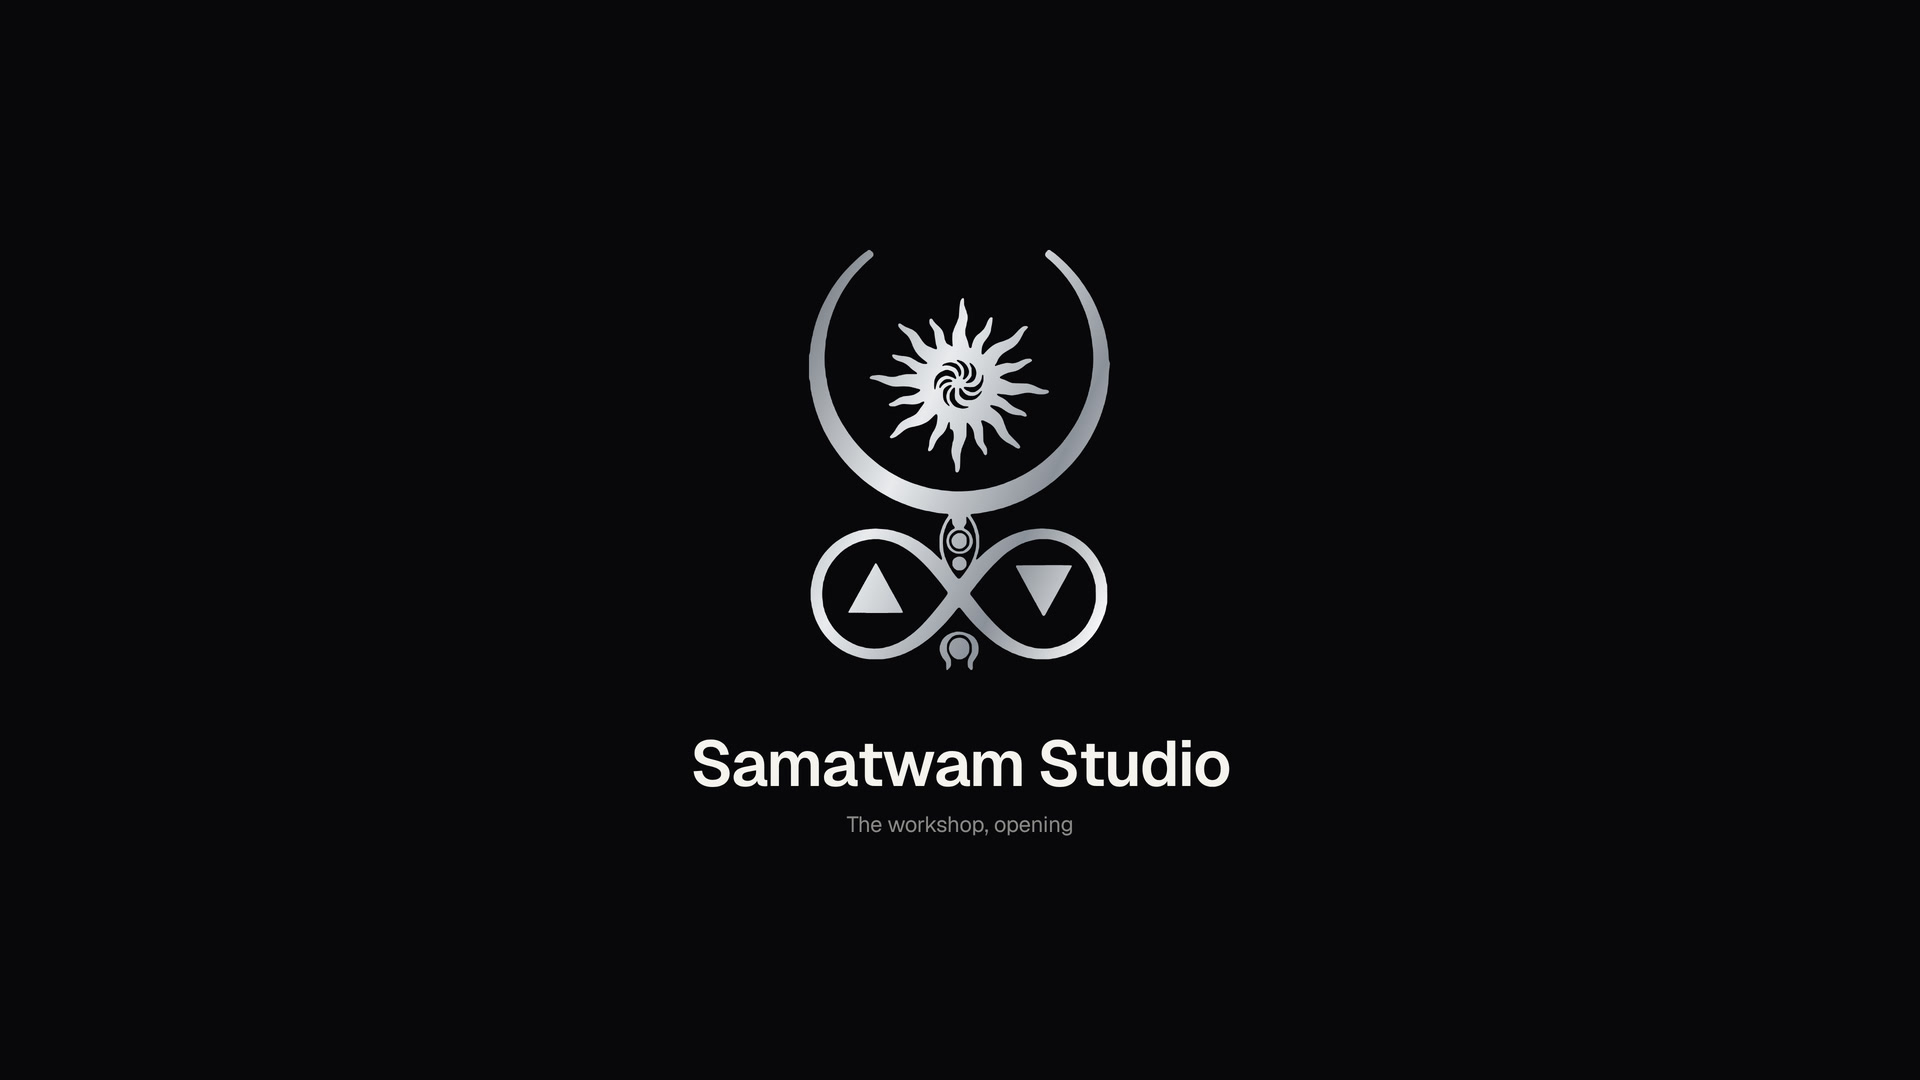
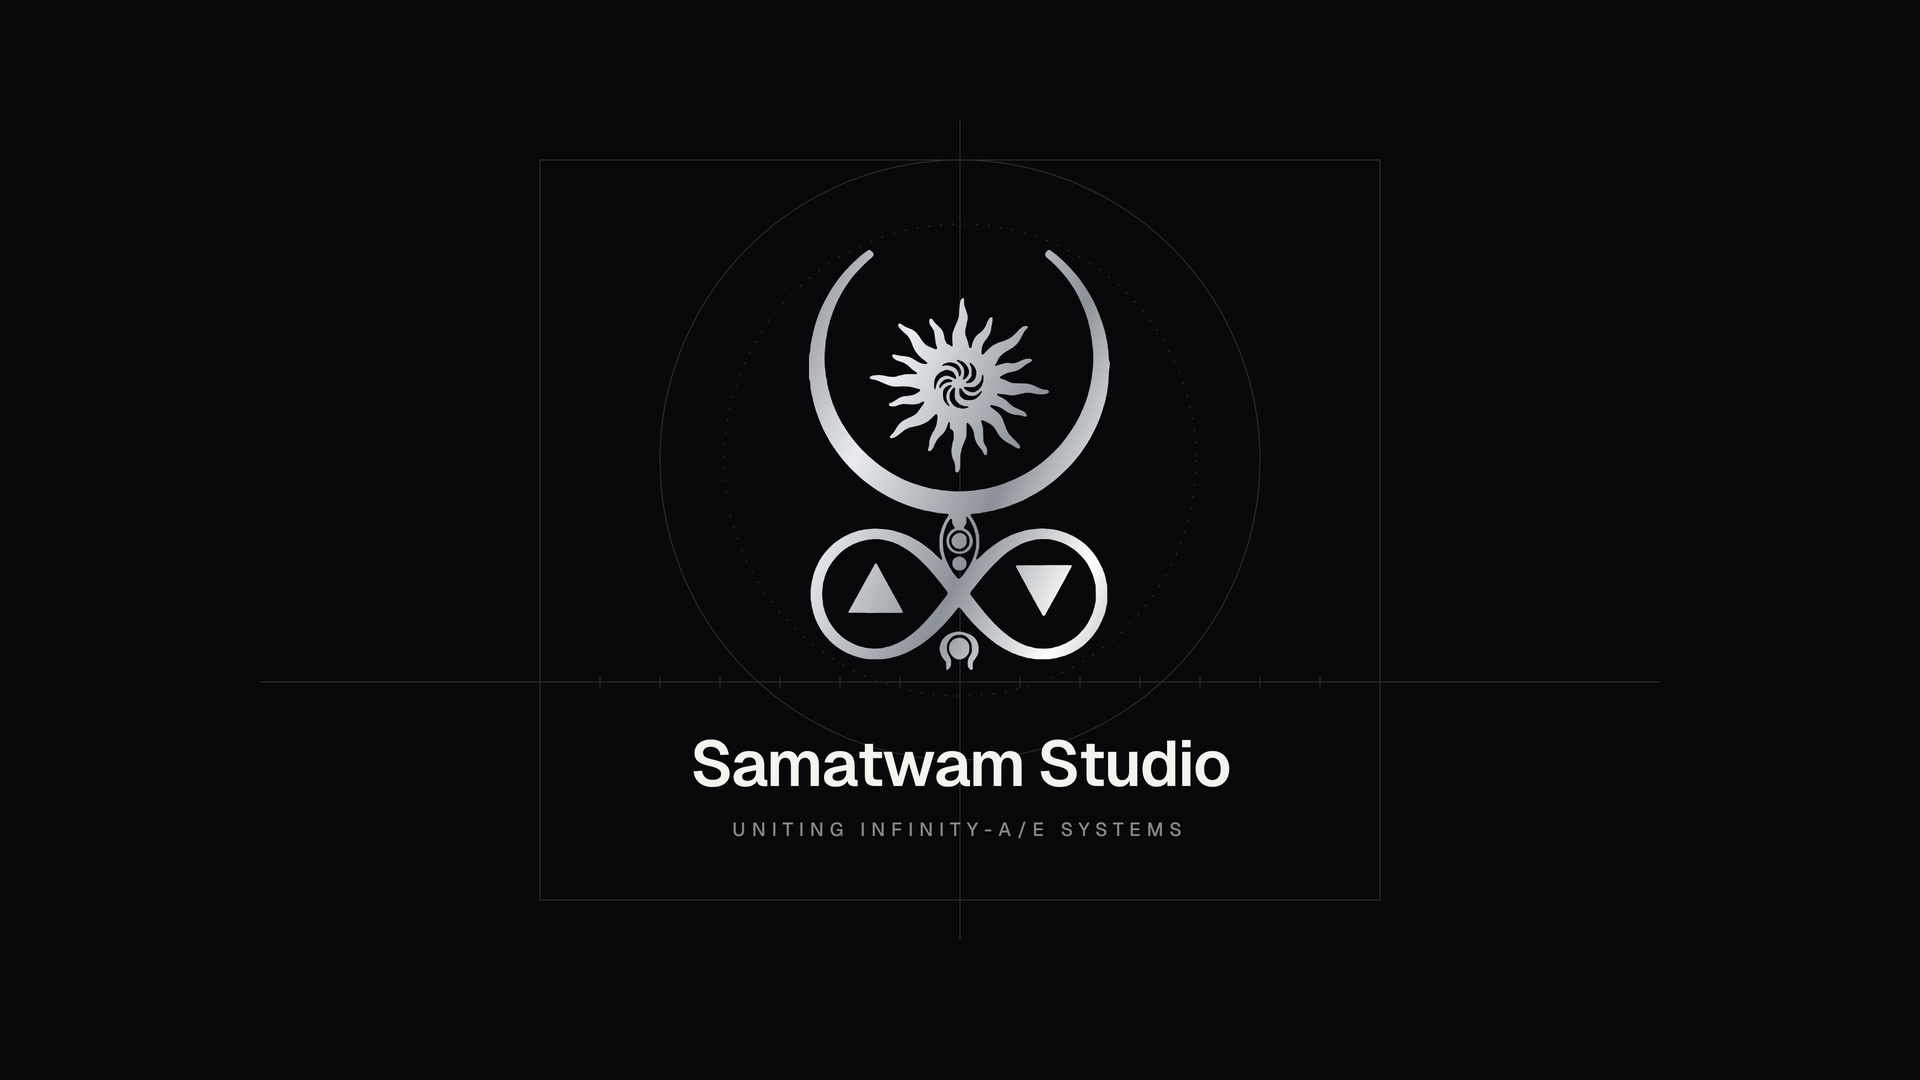
Studio T1: tagline Uniting Infinity-A/E Systems and a structural lattice behind the mark
Claude-Session: https://claude.ai/code/session_01Km7RqoHAzorKvyKgMQcyu4

diff --git a/films/samatwam-studio/source/t1/index.html b/films/samatwam-studio/source/t1/index.html
@@ -11,7 +11,14 @@ STUDIO(async () => {
   // the mark
   const M = chromeMark(420); const mx = (W - M.w) / 2, my = 250; gsap.set(M.wrap, { left: mx, top: my, opacity: 0, scale: .86, transformOrigin: '50% 50%' });
   const title = div('t big', { position: 'absolute', left: 0, width: W + 'px', top: '722px', textAlign: 'center', fontSize: '64px', color: '#F5F3EE' }, stage, [...'Samatwam Studio'].map(c => `<span style="display:inline-block;white-space:pre">${c}</span>`).join(''));
-  const sub = div('t', { position: 'absolute', left: 0, width: W + 'px', top: '810px', textAlign: 'center', fontSize: '22px', color: 'rgba(245,243,238,.55)' }, stage, 'The workshop, opening');
+  const sub = div('t', { position: 'absolute', left: 0, width: W + 'px', top: '818px', textAlign: 'center', fontSize: '19px', fontWeight: 500, letterSpacing: '.32em', textTransform: 'uppercase', color: 'rgba(245,243,238,.55)' }, stage, 'Uniting Infinity-A/E Systems');
+  // a quiet structural lattice: axis, datum, columns and an orbit, surveyed in hairlines behind the mark
+  const lat = div('', { position: 'absolute', inset: 0, pointerEvents: 'none' }, stage, `<svg width="${W}" height="${H}" fill="none" stroke="#F5F3EE" stroke-width="1">`
+    + `<path d="M960 120V940"/><path d="M260 682H1660"/><path d="M540 160V900"/><path d="M1380 160V900"/><circle cx="960" cy="460" r="300"/><circle cx="960" cy="460" r="236" stroke-dasharray="2 10"/>`
+    + [...Array(15)].map((_, i) => `<path d="M${540 + i * 60} 676V688"/>`).join('') + `<rect x="540" y="160" width="840" height="740"/></svg>`);
+  const segs = [...lat.querySelectorAll('path,circle,rect')].filter(n => !n.getAttribute('stroke-dasharray')); segs.forEach(n => { const L = n.getTotalLength(); n.dataset.L = L; n.style.strokeDasharray = L; n.style.strokeDashoffset = L; });
+  const dots = lat.querySelector('[stroke-dasharray]'); gsap.set(lat, { opacity: .16 });
+  tl.to(lat, { opacity: 0, duration: .8, ease: 'power2.in' }, 3.1);
   gsap.set(title.children, { opacity: 0, y: 22, '--b': 10 }); gsap.set(sub, { opacity: 0, y: 12 });
   const live = { liquid: 150 };
   tl.to(M.wrap, { opacity: 1, duration: 1.0, ease: 'power2.out' }, .2).to(M.wrap, { scale: 1, duration: 2.2, ease: 'glide' }, .2).to(live, { liquid: 0, duration: 2.4, ease: 'soft' }, .2)
@@ -28,8 +35,8 @@ STUDIO(async () => {
     .fromTo(a.pf, { width: '24%' }, { width: '62%', duration: 2.2, ease: 'glide' }, 5.6).fromTo(a.rows, { opacity: 0, x: -14 }, { opacity: 1, x: 0, duration: .6, ease: 'reveal', stagger: .12 }, 5.2)
     .fromTo(bw.ev, { opacity: 0, x: -14 }, { opacity: 1, x: 0, duration: .6, ease: 'reveal', stagger: .1 }, 5.8);
   const Q = 'Summarise the Bisahda water pump trial and draft the field report';
-  perFrame.push(t => { M.set(live.liquid, ramp(t, 0, 4.4) * .9); sheen(icons, t, 4.5, .9, .07); const n = Math.round(Q.length * ramp(t, 5.4, 6.9)); a.q.textContent = Q.slice(0, n) + (t > 5.3 && t < 7.4 && Math.floor(t * 2.2) % 2 ? '|' : ''); });
+  perFrame.push(t => { segs.forEach((n, i) => { const p = smooth(ramp(t, .1 + i * .07, 1.9 + i * .07)); n.style.strokeDashoffset = n.dataset.L * (1 - p); }); dots.style.opacity = ramp(t, 1.2, 2); M.set(live.liquid, ramp(t, 0, 4.4) * .9); sheen(icons, t, 4.5, .9, .07); const n = Math.round(Q.length * ramp(t, 5.4, 6.9)); a.q.textContent = Q.slice(0, n) + (t > 5.3 && t < 7.4 && Math.floor(t * 2.2) % 2 ? '|' : ''); });
   // the mark lives above the desktop until it lands
-  stage.appendChild(M.wrap); stage.appendChild(title); stage.appendChild(sub);
+  stage.appendChild(lat); stage.appendChild(M.wrap); stage.appendChild(title); stage.appendChild(sub);
 });
 </script></body></html>
